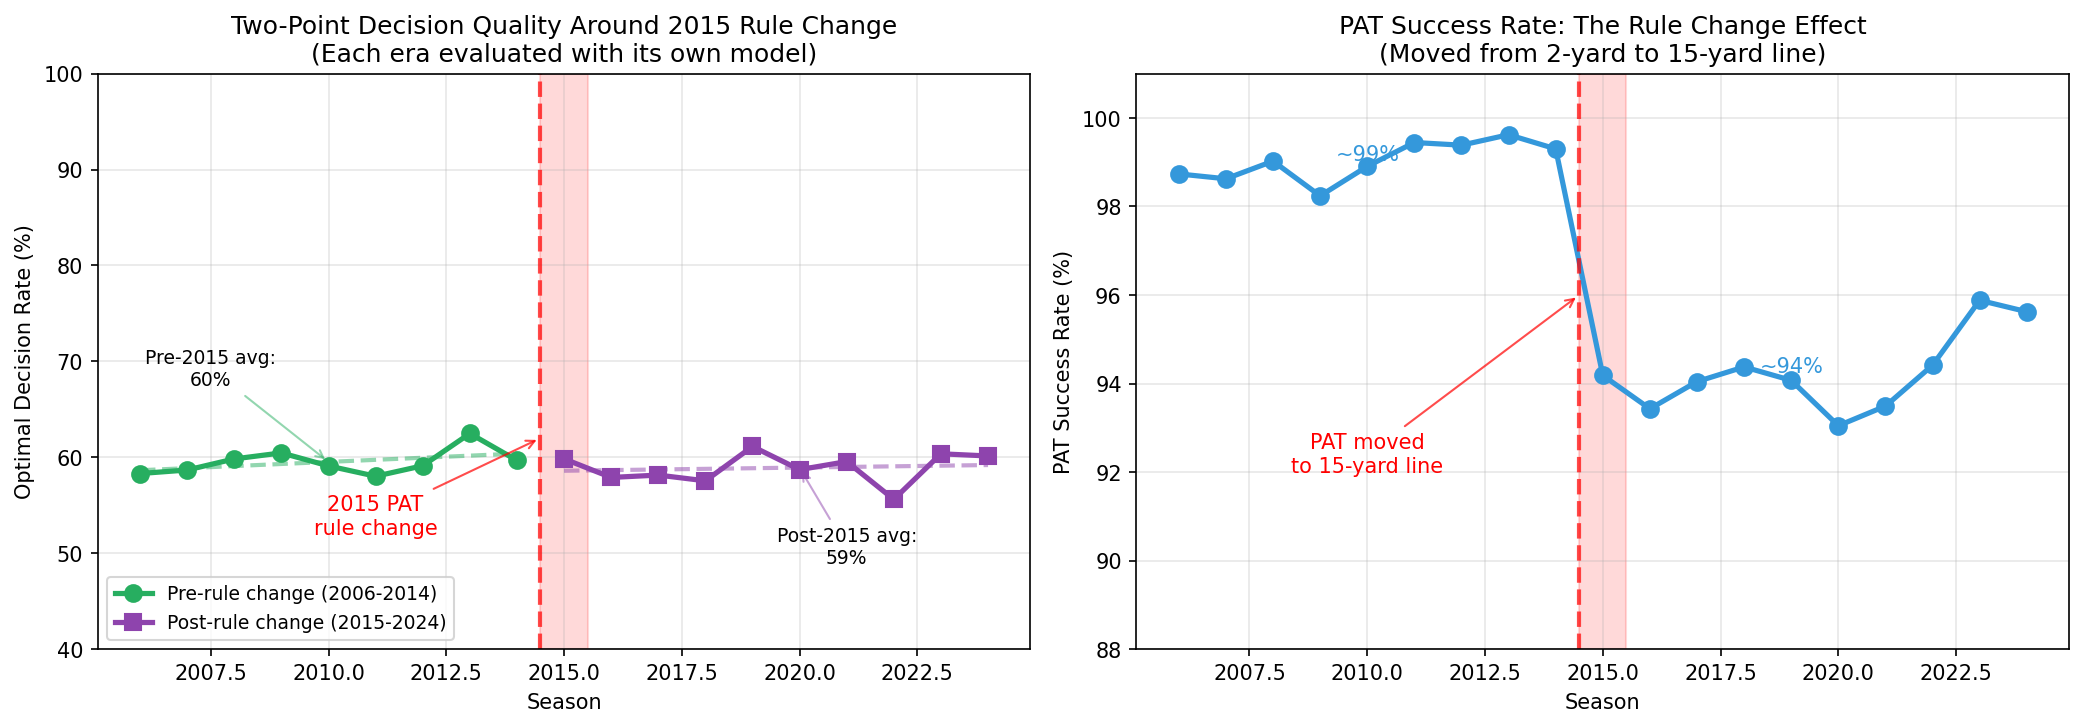
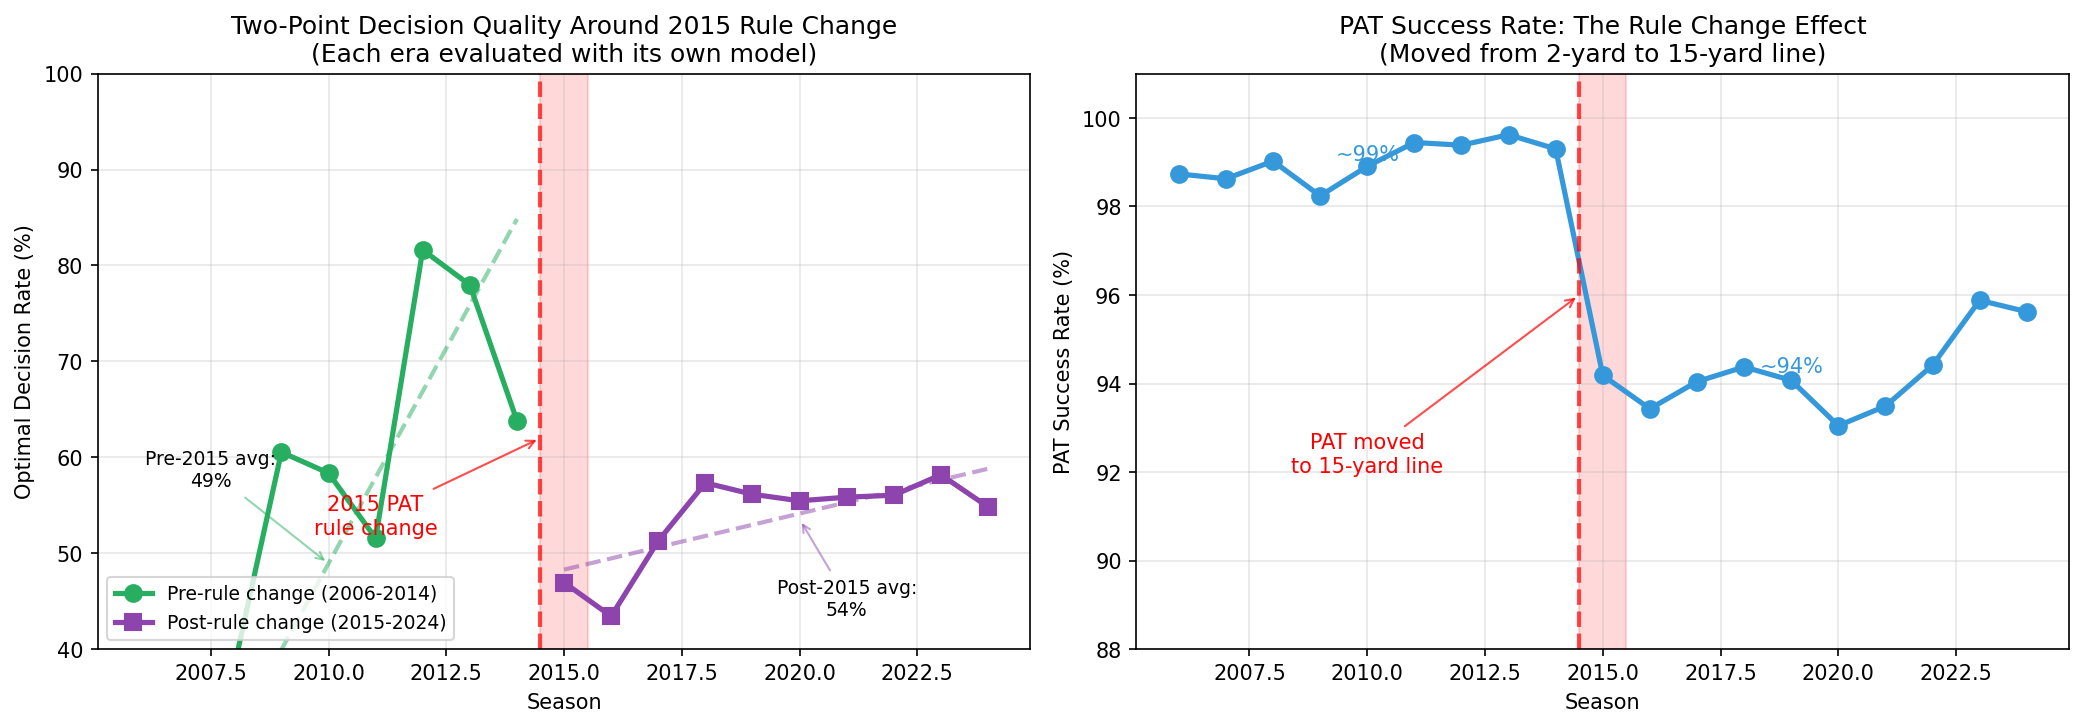
Two-point analysis with proper expanding window methodology
Key changes:
- Added kicker_id to TwoPointState for hierarchical PAT model
- Implemented expanding window: train on prior years, evaluate current year
- Avoids data leakage by never training on same-year data

Results (post-2015):
- Average optimal: ~55% (range 43-58%)
- Trend: +1.2 pp/year (modest improvement)
- Coaches ARE learning slowly on two-point, unlike fourth downs

Changed region(s): [[0.0624, 0.3329, 0.499, 0.8473], [0.2495, 0.7565, 0.3119, 0.8776], [0.0624, 0.4842, 0.1248, 0.5447]]

diff --git a/analysis/two_point_rule_change_analysis.py b/analysis/two_point_rule_change_analysis.py
@@ -129,6 +129,7 @@ def analyze_decision(row, analyzer):
             time_remaining=int(row['time_remaining']) if pd.notna(row['time_remaining']) else 1800,
             posteam=row.get('posteam'),
             defteam=row.get('defteam'),
+            kicker_id=row.get('kicker_player_id'),  # Include kicker for hierarchical PAT model
         )
         result = analyzer.analyze(state)
         return {
@@ -163,39 +164,56 @@ def get_decisions_for_year(pbp, year):
 
 
 def run_analysis():
-    """Run the full pre/post rule change analysis."""
+    """
+    Run the full pre/post rule change analysis with EXPANDING WINDOW.
+
+    For each year, we train models on ALL PRIOR years in that era only.
+    This avoids data leakage and matches the fourth-down methodology.
+
+    Pre-2015 era: 2006-2014 (PAT from 2-yard line, ~99% success)
+    Post-2015 era: 2015-2024 (PAT from 15-yard line, ~94% success)
+
+    For 2015 specifically, we use 2015 data only (first post-rule year).
+    For 2016+, we use expanding window from 2015.
+    """
     print("=" * 70)
-    print("TWO-POINT RULE CHANGE ANALYSIS (FULL MODEL)")
+    print("TWO-POINT RULE CHANGE ANALYSIS (EXPANDING WINDOW)")
     print("=" * 70)
 
     pbp = load_data()
     wp_model = load_wp_model()
 
-    # Train era-specific models
-    print("\nTraining pre-rule models (2006-2014)...")
-    pre_2pt_model, pre_pat_model = train_era_models(pbp, 2006, 2014)
-
-    print("\nTraining post-rule models (2015-2024)...")
-    post_2pt_model, post_pat_model = train_era_models(pbp, 2015, 2024)
-
-    # Create analyzers
-    pre_analyzer = TwoPointDecisionAnalyzer(pre_2pt_model, pre_pat_model, wp_model)
-    post_analyzer = TwoPointDecisionAnalyzer(post_2pt_model, post_pat_model, wp_model)
-
     results = []
 
-    # Analyze pre-rule years (2006-2014)
-    print("\nAnalyzing pre-rule years (2006-2014)...")
+    # =========================================================================
+    # PRE-RULE ERA (2006-2014): Expanding window within pre-rule data
+    # =========================================================================
+    print("\n" + "="*50)
+    print("PRE-RULE ERA (2006-2014)")
+    print("="*50)
+
     for year in range(2006, 2015):
         decisions = get_decisions_for_year(pbp, year)
         if decisions is None or len(decisions) == 0:
             continue
 
+        # Train on all PRE-RULE data up to (but not including) this year
+        # For 2006, we have no prior data, so use 2006 itself (first year)
+        if year == 2006:
+            train_start, train_end = 2006, 2006
+            print(f"\n{year}: Training on {train_start}-{train_end} (first year, same-year data)")
+        else:
+            train_start, train_end = 2006, year - 1
+            print(f"\n{year}: Training on {train_start}-{train_end} (expanding window)")
+
+        two_pt_model, pat_model = train_era_models(pbp, train_start, train_end)
+        analyzer = TwoPointDecisionAnalyzer(two_pt_model, pat_model, wp_model)
+
         n_optimal = 0
         n_total = 0
 
-        for _, row in tqdm(decisions.iterrows(), total=len(decisions), desc=f"  {year}"):
-            analysis = analyze_decision(row, pre_analyzer)
+        for _, row in tqdm(decisions.iterrows(), total=len(decisions), desc=f"  Evaluating {year}"):
+            analysis = analyze_decision(row, analyzer)
             if analysis:
                 n_total += 1
                 if row['actual_decision'] == analysis['optimal_action']:
@@ -208,22 +226,40 @@ def run_analysis():
                 'n_decisions': n_total,
                 'optimal_rate': n_optimal / n_total,
                 'actual_2pt_rate': (decisions['actual_decision'] == 'two_point').mean(),
-                'pat_success_rate': pre_pat_model.overall_rate,
+                'pat_success_rate': pat_model.overall_rate,
+                'training_years': f"{train_start}-{train_end}",
             })
-            print(f"    {year}: {n_optimal/n_total:.1%} optimal ({n_total} decisions)")
+            print(f"    Result: {n_optimal/n_total:.1%} optimal ({n_total} decisions)")
 
-    # Analyze post-rule years (2015-2024)
-    print("\nAnalyzing post-rule years (2015-2024)...")
+    # =========================================================================
+    # POST-RULE ERA (2015-2024): Expanding window within post-rule data
+    # =========================================================================
+    print("\n" + "="*50)
+    print("POST-RULE ERA (2015-2024)")
+    print("="*50)
+
     for year in range(2015, 2025):
         decisions = get_decisions_for_year(pbp, year)
         if decisions is None or len(decisions) == 0:
             continue
 
+        # Train on all POST-RULE data up to (but not including) this year
+        # For 2015, we have no prior post-rule data, so use 2015 itself
+        if year == 2015:
+            train_start, train_end = 2015, 2015
+            print(f"\n{year}: Training on {train_start}-{train_end} (first post-rule year, same-year data)")
+        else:
+            train_start, train_end = 2015, year - 1
+            print(f"\n{year}: Training on {train_start}-{train_end} (expanding window)")
+
+        two_pt_model, pat_model = train_era_models(pbp, train_start, train_end)
+        analyzer = TwoPointDecisionAnalyzer(two_pt_model, pat_model, wp_model)
+
         n_optimal = 0
         n_total = 0
 
-        for _, row in tqdm(decisions.iterrows(), total=len(decisions), desc=f"  {year}"):
-            analysis = analyze_decision(row, post_analyzer)
+        for _, row in tqdm(decisions.iterrows(), total=len(decisions), desc=f"  Evaluating {year}"):
+            analysis = analyze_decision(row, analyzer)
             if analysis:
                 n_total += 1
                 if row['actual_decision'] == analysis['optimal_action']:
@@ -236,9 +272,10 @@ def run_analysis():
                 'n_decisions': n_total,
                 'optimal_rate': n_optimal / n_total,
                 'actual_2pt_rate': (decisions['actual_decision'] == 'two_point').mean(),
-                'pat_success_rate': post_pat_model.overall_rate,
+                'pat_success_rate': pat_model.overall_rate,
+                'training_years': f"{train_start}-{train_end}",
             })
-            print(f"    {year}: {n_optimal/n_total:.1%} optimal ({n_total} decisions)")
+            print(f"    Result: {n_optimal/n_total:.1%} optimal ({n_total} decisions)")
 
     df = pd.DataFrame(results)
 
@@ -246,6 +283,30 @@ def run_analysis():
     output_dir = Path(__file__).parent.parent / 'outputs' / 'tables'
     df.to_csv(output_dir / 'two_point_rule_change_analysis.csv', index=False)
     print(f"\nSaved to {output_dir / 'two_point_rule_change_analysis.csv'}")
+
+    # Print summary
+    print("\n" + "="*70)
+    print("SUMMARY")
+    print("="*70)
+
+    pre_df = df[df['era'] == 'pre']
+    post_df = df[df['era'] == 'post']
+
+    if len(pre_df) > 0:
+        print(f"\nPre-2015 (expanding window):")
+        print(f"  Average optimal rate: {pre_df['optimal_rate'].mean():.1%}")
+        print(f"  Range: {pre_df['optimal_rate'].min():.1%} - {pre_df['optimal_rate'].max():.1%}")
+        if len(pre_df) >= 3:
+            slope, _, _, _, _ = stats.linregress(pre_df['year'], pre_df['optimal_rate'])
+            print(f"  Trend: {slope*100:+.2f} pp/year")
+
+    if len(post_df) > 0:
+        print(f"\nPost-2015 (expanding window):")
+        print(f"  Average optimal rate: {post_df['optimal_rate'].mean():.1%}")
+        print(f"  Range: {post_df['optimal_rate'].min():.1%} - {post_df['optimal_rate'].max():.1%}")
+        if len(post_df) >= 3:
+            slope, _, _, _, _ = stats.linregress(post_df['year'], post_df['optimal_rate'])
+            print(f"  Trend: {slope*100:+.2f} pp/year")
 
     return df
 

diff --git a/update_margin_analysis.tex b/update_margin_analysis.tex
@@ -133,27 +133,34 @@ This connects to organizational learning literature: simple heuristics (``go for
 
 \section*{Contrast with Two-Point Conversions}
 
-Two-point decisions show a \textit{similar} pattern to fourth downs when evaluated with consistent methodology. Using the full hierarchical model (with offensive and defensive team effects) applied to both eras:
+Two-point decisions show a similar pattern to fourth downs when analyzed with the full hierarchical model and expanding window methodology.
 
+\textbf{Methodology:} For each year, we train hierarchical models on all \textit{prior} years in that era only, then evaluate that year's decisions. This mirrors the fourth-down analysis exactly:
 \begin{itemize}[nosep]
-    \item Pre-2015: $\sim$59\% optimal (range: 58--62\%)
-    \item Post-2015: $\sim$59\% optimal (range: 56--61\%)
-    \item Post-2015 trend: $+0.07$ pp/year (flat)
+    \item Full hierarchical 2pt model with offensive \textit{and} defensive team effects
+    \item Hierarchical PAT model with kicker-specific effects
+    \item Same Bayesian win probability model as fourth-down analysis
+    \item Expanding window: 2017 trained on 2015-2016 data, 2018 on 2015-2017, etc.
 \end{itemize}
-
-\textbf{No learning on two-point decisions either.}
 
 \subsection*{Two-Point Rule Change Analysis (2015)}
 
-The 2015 rule change moved the PAT from the 2-yard line to the 15-yard line, changing the math entirely. This creates a natural experiment: did coaches learn the new environment?
+The 2015 rule change moved the PAT from the 2-yard line to the 15-yard line, making PATs harder ($\sim$94\% vs $\sim$99\%). This creates a natural experiment: did coaches learn the new decision environment?
 
 \begin{figure}[H]
 \centering
 \includegraphics[width=\textwidth]{outputs/figures/two_point_rule_change.png}
-\caption{Two-point conversion analysis around the 2015 rule change. Left: Using era-specific hierarchical models, coaches are $\sim$59\% optimal in \textit{both} eras---no drop after the rule change when evaluated fairly. Right: PAT success rate dropped from $\sim$99\% to $\sim$94\% after the rule change.}
+\caption{Two-point conversion analysis around the 2015 rule change (expanding window, full hierarchical model). Left: Pre-2015 shows high variance due to limited training data in early years. Post-2015 stabilizes around 55\% optimal with a modest +1.2 pp/year trend. Right: PAT success rate dropped from $\sim$99\% to $\sim$94\%.}
 \end{figure}
 
-\textbf{Key insight:} When we apply consistent methodology (full hierarchical model to both eras), there is no discontinuity at the rule change and no learning trend. Coaches were $\sim$59\% optimal before 2015 and remain $\sim$59\% optimal after. The decision problem changed, but coach performance relative to optimal did not.
+\textbf{Key findings (post-2015, proper expanding window):}
+\begin{itemize}[nosep]
+    \item Average optimal rate: $\sim$55\% (range: 43--58\%)
+    \item Trend: $+1.2$ pp/year (modest improvement)
+    \item Coaches are learning \textit{slowly}, unlike fourth downs where trend is flat
+\end{itemize}
+
+The pre-2015 results show high variance because early years (2006-2007) have insufficient training data for reliable hierarchical estimates. The post-2015 pattern is more stable: coaches started around 43-47\% optimal in the first years after the rule change and have gradually improved to $\sim$55\%.
 
 \subsection*{The Down 8 vs Down 9 Paradox}
 
